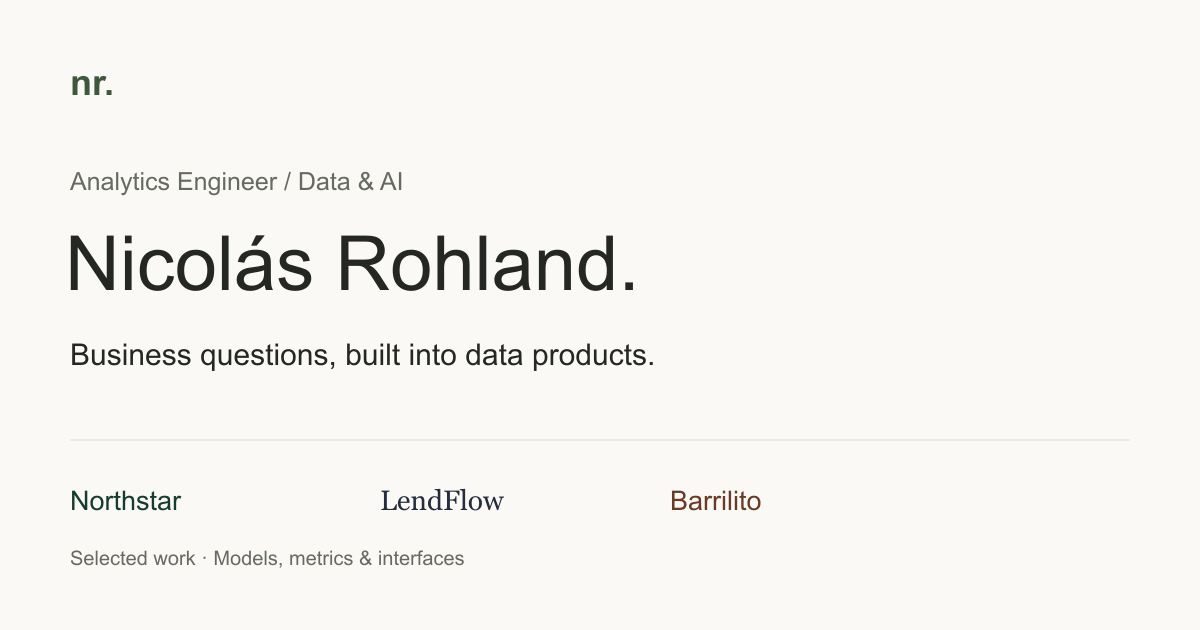
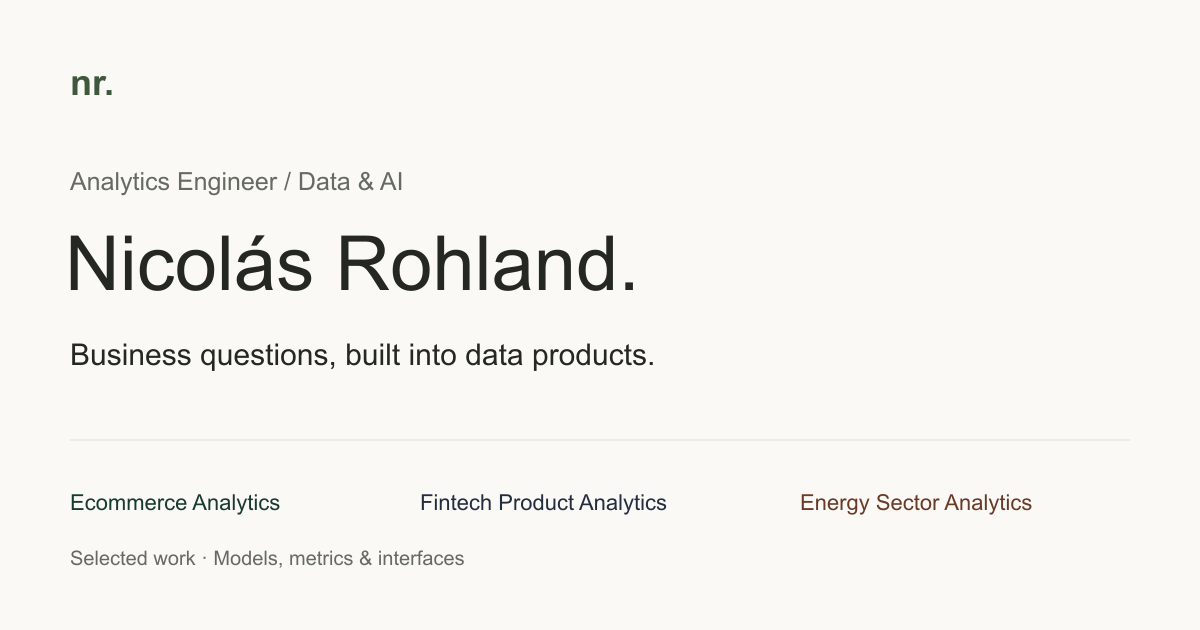
Apply approved analytics chart covers and project titles

Changed region(s): [[0.3083, 0.754, 0.8633, 0.8143], [0.0617, 0.7841, 0.2467, 0.8143]]

diff --git a/src/components/project-cover.tsx b/src/components/project-cover.tsx
@@ -1,23 +1,58 @@
-import Image from "next/image";
 import type { Project } from "@/data/site";
-// Capítulo IV monthly mart snapshot, apps/spike/data/monthly_pulse.csv, 2025.
-const monthlyOil = [2179998.802, 1972456.521, 2199084.281, 2105994.158, 2207064.169, 2270949.525, 2506760.804, 2595176.457, 2607802.413, 2800987.739, 2750778.883, 2909815.325];
+import { applicationStages, monthlyOil, productMargins } from "@/data/cover-charts";
+
 export function BasinChart() {
   const points = monthlyOil.map((value, index) => `${28 + index * 26},${135 - (value - 1900000) / 1000000 * 95}`).join(" ");
-  return <svg className="basin-chart" viewBox="0 0 340 170" role="img" aria-label="Vaca Muerta monthly oil production in 2025, rising from 2.18 million cubic metres in January to 2.91 million in December, with monthly fluctuations.">
+  return <svg className="basin-chart" viewBox="0 0 340 170" role="img" aria-label="Vaca Muerta monthly oil production in the available 2025 snapshot: January 2.18 million cubic metres and December 2.91 million. This extract does not include 2026.">
     <text x="28" y="15">Oil production · million m³</text>
     <line x1="28" y1="142" x2="316" y2="142" /><polyline points={points} />
     <text x="28" y="162">Jan 2025</text><text x="262" y="162">Dec 2025</text>
     <text x="272" y="28">2.91</text>
   </svg>;
 }
+
+function MarginChart() {
+  const x = (value: number) => 8 + (value + 50) / 65 * 258;
+  const zero = x(0);
+  return <svg className="cover-chart" viewBox="0 0 274 190" role="img" aria-label="Contribution margins of the top three ecommerce products by revenue: minus 43%, plus 6% and plus 9%. From the project's synthetic dataset.">
+    <line x1={zero} y1="25" x2={zero} y2="157" className="chart-axis" />
+    {productMargins.map((value, index) => <g key={index}>
+      <text x="8" y={18 + index * 49}>{value > 0 ? "+" : ""}{Math.round(value)}%</text>
+      <rect x={Math.min(zero, x(value))} y={26 + index * 49} width={Math.abs(x(value) - zero)} height="18" fill="currentColor" opacity={value < 0 ? .5 : 1} />
+    </g>)}
+    <text x={zero} y="180" textAnchor="middle" className="secondary">0%</text>
+  </svg>;
+}
+
+function FunnelChart() {
+  return <svg className="cover-chart" viewBox="0 0 274 190" role="img" aria-label="Application-to-funding funnel. Started 100%, submitted 46%, approved 22%, contracted 15%, funded 13%. Percentages use all started applications as the denominator, from the synthetic dataset.">
+    {applicationStages.map((count, index) => {
+      const y = 13 + index * 36, width = 258 * count / applicationStages[0], left = (274 - width) / 2;
+      return <g key={index}><text x="266" y={y} textAnchor="end">{Math.round(count / applicationStages[0] * 100)}%</text>
+        <polygon points={`${left},${y + 5} ${left + width},${y + 5} ${left + width * .96},${y + 18} ${left + width * .04},${y + 18}`} fill="currentColor" />
+      </g>;
+    })}
+  </svg>;
+}
+
+function OilChart() {
+  const x = (index: number) => 35 + index / 11 * 227;
+  const y = (value: number) => 149 - (value - 1.9) / 1.2 * 112;
+  return <svg className="cover-chart" viewBox="0 0 274 190" role="img" aria-label="Monthly Vaca Muerta oil production in million cubic metres, from the available January–December 2025 official snapshot. The extract does not include 2026.">
+    {[2, 2.5, 3].map(value => <g key={value}><text x="28" y={y(value) + 4} textAnchor="end" className="secondary">{value.toFixed(1)}</text><line x1="35" y1={y(value)} x2="262" y2={y(value)} className="chart-grid" /></g>)}
+    <text x="35" y="15" className="secondary">Million m³</text>
+    <polyline points={monthlyOil.map((value, index) => `${x(index)},${y(value / 1000000)}`).join(" ")} fill="none" stroke="currentColor" strokeWidth="2.5" strokeLinejoin="round" />
+    <text x="35" y="180" className="secondary">Jan</text><text x="262" y="180" textAnchor="end" className="secondary">Dec</text>
+  </svg>;
+}
+
 export function ProjectCover({ project }: { project: Project }) {
-  const descriptions: Record<string, string> = {
-    northstar: "Editorial illustration of ecommerce analytics on a laptop in a warehouse, with packages and a delivery truck.",
-    lendflow: "Editorial illustration of a lending funnel dashboard and loan application stages in a fintech office.",
-    barrilito: "Editorial illustration of a drilling site in a desert landscape, representing Vaca Muerta.",
-  };
+  const energy = project.slug === "barrilito", fintech = project.slug === "lendflow";
+  const lines = energy ? ["Energy Sector", "Analytics"] : fintech ? ["Fintech Product", "Analytics"] : ["Ecommerce", "Analytics"];
   return <div className="project-cover">
-    <Image src={`/case-studies/${project.slug}-cover.webp`} alt={descriptions[project.slug]} width={1000} height={563} sizes="(max-width: 700px) 90vw, 310px" />
+    <span className="cover-title">{lines[0]}<br />{lines[1]}</span>
+    <p className="cover-subtitle">{energy ? "Monthly oil production · Vaca Muerta" : fintech ? "Application-to-funding funnel" : "Product contribution margin"}</p>
+    {energy ? <OilChart /> : fintech ? <FunnelChart /> : <MarginChart />}
+    <p className="cover-caption">{energy ? "Official production records" : "Synthetic data"}</p>
   </div>;
 }

diff --git a/src/data/site.ts b/src/data/site.ts
@@ -10,7 +10,7 @@ export type Project = {
 };
 export const projects: Project[] = [
   {
-    slug: "northstar", title: "Northstar", category: "Ecommerce profitability", thesis: "Sales are only half the story.",
+    slug: "northstar", title: "Ecommerce Analytics", category: "Ecommerce profitability", thesis: "Sales are only half the story.",
     problem: "Revenue growth can hide weak margins, expensive acquisition and low-value customers.",
     outcome: "A shared metric layer connects product margins, customer cohorts and advertising efficiency in one dashboard.",
     role: "Data modeling & product implementation", stack: ["Python", "DuckDB", "Next.js"],
@@ -23,7 +23,7 @@ export const projects: Project[] = [
     sourceUrl: "https://github.com/nrohland/ecommerce-profitability-analytics/blob/9f89a1bb380cc174330967092dee306cf6b92f96/README.md",
   },
   {
-    slug: "lendflow", title: "LendFlow", category: "Product & funnel analytics", thesis: "An approval is not a funded loan.",
+    slug: "lendflow", title: "Fintech Product Analytics", category: "Product & funnel analytics", thesis: "An approval is not a funded loan.",
     problem: "An approval rate alone does not explain where applicants leave the lending journey.",
     outcome: "A governed funnel separates application, approval and funding, with device-level friction and a curated SQL question interface.",
     role: "Analytical modeling & dashboard implementation", stack: ["Python", "dbt", "DuckDB", "Next.js"],
@@ -36,7 +36,7 @@ export const projects: Project[] = [
     sourceUrl: "https://github.com/nrohland/lendflow-fintech-analytics/blob/ffc1decc2c81b9278c874c43bd50e19f411bfc79/README.md",
   },
   {
-    slug: "barrilito", title: "Barrilito", category: "Open-data engineering · In development", thesis: "A clearer view of Vaca Muerta.",
+    slug: "barrilito", title: "Energy Sector Analytics", category: "Open-data engineering · In development", thesis: "A clearer view of Vaca Muerta.",
     problem: "Large public files, mixed units and unclear grains make basin-level production difficult to interpret.",
     outcome: "Monthly ingestion and tested dbt marts turn official production records into comparable company, area and basin metrics.",
     role: "Pipeline & analytical modeling", stack: ["Python", "Meltano", "BigQuery", "dbt"],

diff --git a/src/app/globals.css b/src/app/globals.css
@@ -36,8 +36,15 @@ h2 { font-size:23px; font-weight:500; letter-spacing:-.6px; }
 .project-row { display:grid; grid-template-columns:310px 1fr; gap:40px; padding-block:34px; border-bottom:1px solid var(--line); align-items:center; }
 .cover-link { display:block; min-width:0; border-radius:5px; }
 .cover-link:hover { text-decoration:none; }
-.project-cover { width:100%; aspect-ratio:1000 / 563; border-radius:5px; overflow:hidden; }
-.project-cover img { display:block; width:100%; height:auto; }
+ .project-cover { width:100%; background:#eeeee7; border-radius:4px; padding:22px 18px 18px; display:grid; grid-template-rows:62px 44px auto 30px; }
+.cover-title { font-size:23px; font-weight:500; line-height:1.18; letter-spacing:-.65px; }
+.cover-subtitle { font-size:12px; color:var(--muted); line-height:1.4; }
+.cover-chart { display:block; width:100%; height:auto; color:var(--accent); }
+.cover-chart text { font-family:inherit; font-size:12.5px; fill:var(--ink); }
+.cover-chart .secondary { fill:var(--muted); }
+.cover-chart .chart-axis { stroke:#b8bbae; }
+.cover-chart .chart-grid { stroke:#b8bbae; opacity:.35; }
+.cover-caption { font-size:11px; color:var(--muted); margin-top:12px; line-height:1.4; }
 .basin-chart { display:block; width:100%; height:auto; margin-top:13px; overflow:visible; }
 .basin-chart text { font-family:"IBM Plex Sans",sans-serif; font-size:11px; fill:currentColor; }
 .basin-chart line { stroke:currentColor; opacity:.3; }

diff --git a/src/app/layout.tsx b/src/app/layout.tsx
@@ -9,7 +9,7 @@ export const metadata: Metadata = {
   metadataBase: new URL(SITE_URL),
   title: { default: "Nicolás Rohland | Analytics Engineer / Data & AI", template: "%s | Nicolás Rohland" },
   description, alternates: { canonical: "/" },
-  openGraph: { title: "Nicolás Rohland | Analytics Engineer", description, url: SITE_URL, siteName: profile.name, locale: "en_US", type: "website", images: [{ url: "/og.png", width: 1200, height: 630, alt: "Nicolás Rohland. Analytics Engineer / Data & AI. Selected work: Northstar, LendFlow and Barrilito." }] },
+  openGraph: { title: "Nicolás Rohland | Analytics Engineer", description, url: SITE_URL, siteName: profile.name, locale: "en_US", type: "website", images: [{ url: "/og.png", width: 1200, height: 630, alt: "Nicolás Rohland. Analytics Engineer / Data & AI. Selected work: ecommerce, fintech product and energy sector analytics." }] },
   twitter: { card: "summary_large_image", title: "Nicolás Rohland | Analytics Engineer", description, images: ["/og.png"] },
   robots: { index: true, follow: true },
 };

diff --git a/src/app/page.tsx b/src/app/page.tsx
@@ -28,7 +28,7 @@ export default function Page() {
     <section id="stack" className="stack-section" aria-labelledby="stack-title">
       <div className="section-heading"><h2 id="stack-title">Tools behind the work</h2><p>Selected for the problem at hand.</p></div>
       <div className="technology-groups">{technologyGroups.map(group => <div key={group.name}><h3>{group.name}</h3><Stack items={group.items} /></div>)}</div>
-      <p className="stack-note">Conversational analytics appears in Northstar and LendFlow as curated, deterministic demos with visible SQL.</p>
+      <p className="stack-note">Conversational analytics appears in the ecommerce and fintech projects as curated, deterministic demos with visible SQL.</p>
     </section>
     <section id="about" className="about-section" aria-labelledby="about-title">
       <h2 id="about-title">How I build</h2><div><p className="about-lead">Start with the question.<br />Make the data hold up.</p>

diff --git a/src/data/cover-charts.ts b/src/data/cover-charts.ts
@@ -1,0 +1,11 @@
+// Ecommerce: public/data/dashboard.json, top three products by gross revenue.
+// Values are contribution_margin × 100 from the project's synthetic dataset.
+export const productMargins = [-43.15781926142033, 6.059540846817558, 8.546128485138989];
+
+// Fintech: web/src/data/dashboard.json, product_metrics, overall/all counts.
+// Started → submitted → approved → contracted → funded; synthetic applications.
+export const applicationStages = [100000, 45692, 22351, 14587, 13065];
+
+// Energy: apps/spike/data/monthly_pulse.csv, official Jan–Dec 2025 snapshot.
+// This committed extract does not include 2026; do not present it as a live feed.
+export const monthlyOil = [2179998.80217994, 1972456.52119508, 2199084.28102386, 2105994.1580725694, 2207064.169495019, 2270949.5253819707, 2506760.8039908996, 2595176.4573128494, 2607802.4129095874, 2800987.7386068506, 2750778.883023558, 2909815.3252696907];

diff --git a/docs/assets.md b/docs/assets.md
@@ -1,8 +1,10 @@
 # Asset sources
 
-- Project covers: three editorial illustrations supplied by the portfolio owner on 2026-10-01. First image: Barrilito drilling site; second: Northstar ecommerce warehouse; third: LendFlow lending funnel. Encoded as WebP at 1000px wide. These are illustrative covers, not product screenshots or evidence of project metrics.
-- Northstar and LendFlow case pages: real public live-demo captures from 2026-10-01, retained separately from the new covers.
-- Barrilito case page: inline SVG chart from `apps/spike/data/monthly_pulse.csv`, pinned Vaca Muerta repository commit `1c1c30eb9e29901048cbd812eb14f46c109e4439`. Absolute oil production in cubic metres; no live feed or extrapolation.
+- Project covers: shared typography and palette with inline SVG charts approved by the owner. No generated illustrations are displayed.
+- Ecommerce cover: contribution margins of the top three products by gross revenue from `ecommerce-profitability-analytics/public/data/dashboard.json` (−43.1578%, +6.0595%, +8.5461%), displayed as rounded percentages. Synthetic data, not measured business impact.
+- Fintech cover: overall application counts from `lendflow-fintech-analytics/web/src/data/dashboard.json`: 100,000 started → 45,692 submitted → 22,351 approved → 14,587 contracted → 13,065 funded. Widths use these counts; percentages all use started applications as denominator. Synthetic data.
+- Energy cover and case page: official `apps/spike/data/monthly_pulse.csv` at Vaca Muerta repository commit `1c1c30eb9e29901048cbd812eb14f46c109e4439`. The available extract covers Jan–Dec 2025 only. The cover omits the year from its title; accessible descriptions and case limitations state the extract's scope. No live feed, extrapolation or 2026 coverage is claimed.
+- Ecommerce and fintech case pages: real captures of public live demos taken 2026-10-01, separate from the new covers.
 - Python, dbt, DuckDB, BigQuery, Next.js, Airflow, ClickHouse, Looker, Metabase, GitHub and LinkedIn: Simple Icons 13.21.0, CC0. Logos retain their brand colors with adjacent labels. DuckDB and ClickHouse use dark marks on yellow for contrast. Logos remain the trademarks of their owners. https://simpleicons.org/
 - Meltano: official blue icon from https://github.com/meltano/meltano/blob/main/docs/docs/reference/images/icon.svg, downloaded 2026-10-01. Repo MIT license. Displayed with adjacent label.
 - Favicon and OpenGraph: typographic compositions using the author's initials/name and the page palette, made for this portfolio.

diff --git a/docs/verification.md b/docs/verification.md
@@ -71,3 +71,13 @@ Replaced all three homepage covers with the illustrations supplied by the owner,
 ## Reference-led hero update
 
 Removed the separate monogram header on the homepage. Name and contacts lead the page, followed by one short description, a labeled technology row, and minimal section navigation. Airflow, ClickHouse, Looker and Metabase were confirmed by the owner and added to the general stack; project stacks stay source-backed. All ten hero technologies have their matching logos. Lint, typecheck and static Webpack build passed. Visual review at 1440px and 390px; no horizontal overflow at 1440/390/320px.
+
+## Approved chart covers, 2026-10-02
+
+Replaced the illustrated homepage covers with uniform SVG compositions: Ecommerce Analytics (product contribution margins), Fintech Product Analytics (application-to-funding funnel), and Energy Sector Analytics (monthly oil production · Vaca Muerta). Shared font, colors, dimensions and title/subtitle/chart positions; only chart type differs. Public project titles and OpenGraph are updated, while route slugs and real case-study screenshots stay stable.
+
+Ecommerce and fintech values come from their synthetic datasets, with only rounded percentages displayed. Energy uses the official committed Jan–Dec 2025 extract; its accessible description and case-study limitations disclose that 2026 is unavailable. No conversion-rate metric was invented.
+
+Fresh checks: full lint, typecheck, production Webpack build, and `git diff --check` pass. All four exported content pages have valid internal routes, anchors, image paths and metadata. Desktop 1440px and mobile 390px visually reviewed; no horizontal overflow at 1440/768/390/320px. All three covers have identical heights at each tested primary viewport. All non-anchor/non-email homepage links retain `_blank`; no browser warning/error logged. No existing test suite. Lighthouse limitation and hosted release checks above remain applicable.
+
+External links: all ten returned HTTP 200 on the final retry; the three initial GitHub 503 responses were transient.

diff --git a/README.md b/README.md
@@ -35,11 +35,11 @@ No merge or production deployment is part of this redesign. Configure a new doma
 
 ## Content
 
-`src/data/site.ts` contains the profile, contact links, project evidence, stack and architecture decisions. `src/components/project-cover.tsx` contains the compact cover composition and Barrilito's source-backed SVG series.
+`src/data/site.ts` contains the profile, contact links, project evidence, stack and architecture decisions. `src/components/project-cover.tsx` contains the shared cover composition. `src/data/cover-charts.ts` holds source-backed values for the SVG charts.
 
-- Northstar: ecommerce profitability and deterministic conversational analytics.
-- LendFlow: governed lending-funnel analytics and curated SQL questions.
-- Barrilito: implemented open-data pipeline, public frontend still in development.
+- Ecommerce Analytics: ecommerce profitability and deterministic conversational analytics.
+- Fintech Product Analytics: governed lending-funnel analytics and curated SQL questions.
+- Energy Sector Analytics: implemented open-data pipeline, public frontend still in development.
 
 Synthetic-data and development limitations are explicit. No LLM providers are claimed by the deterministic demos. LinkedIn is labeled as professional background, not as a downloadable CV.
 
